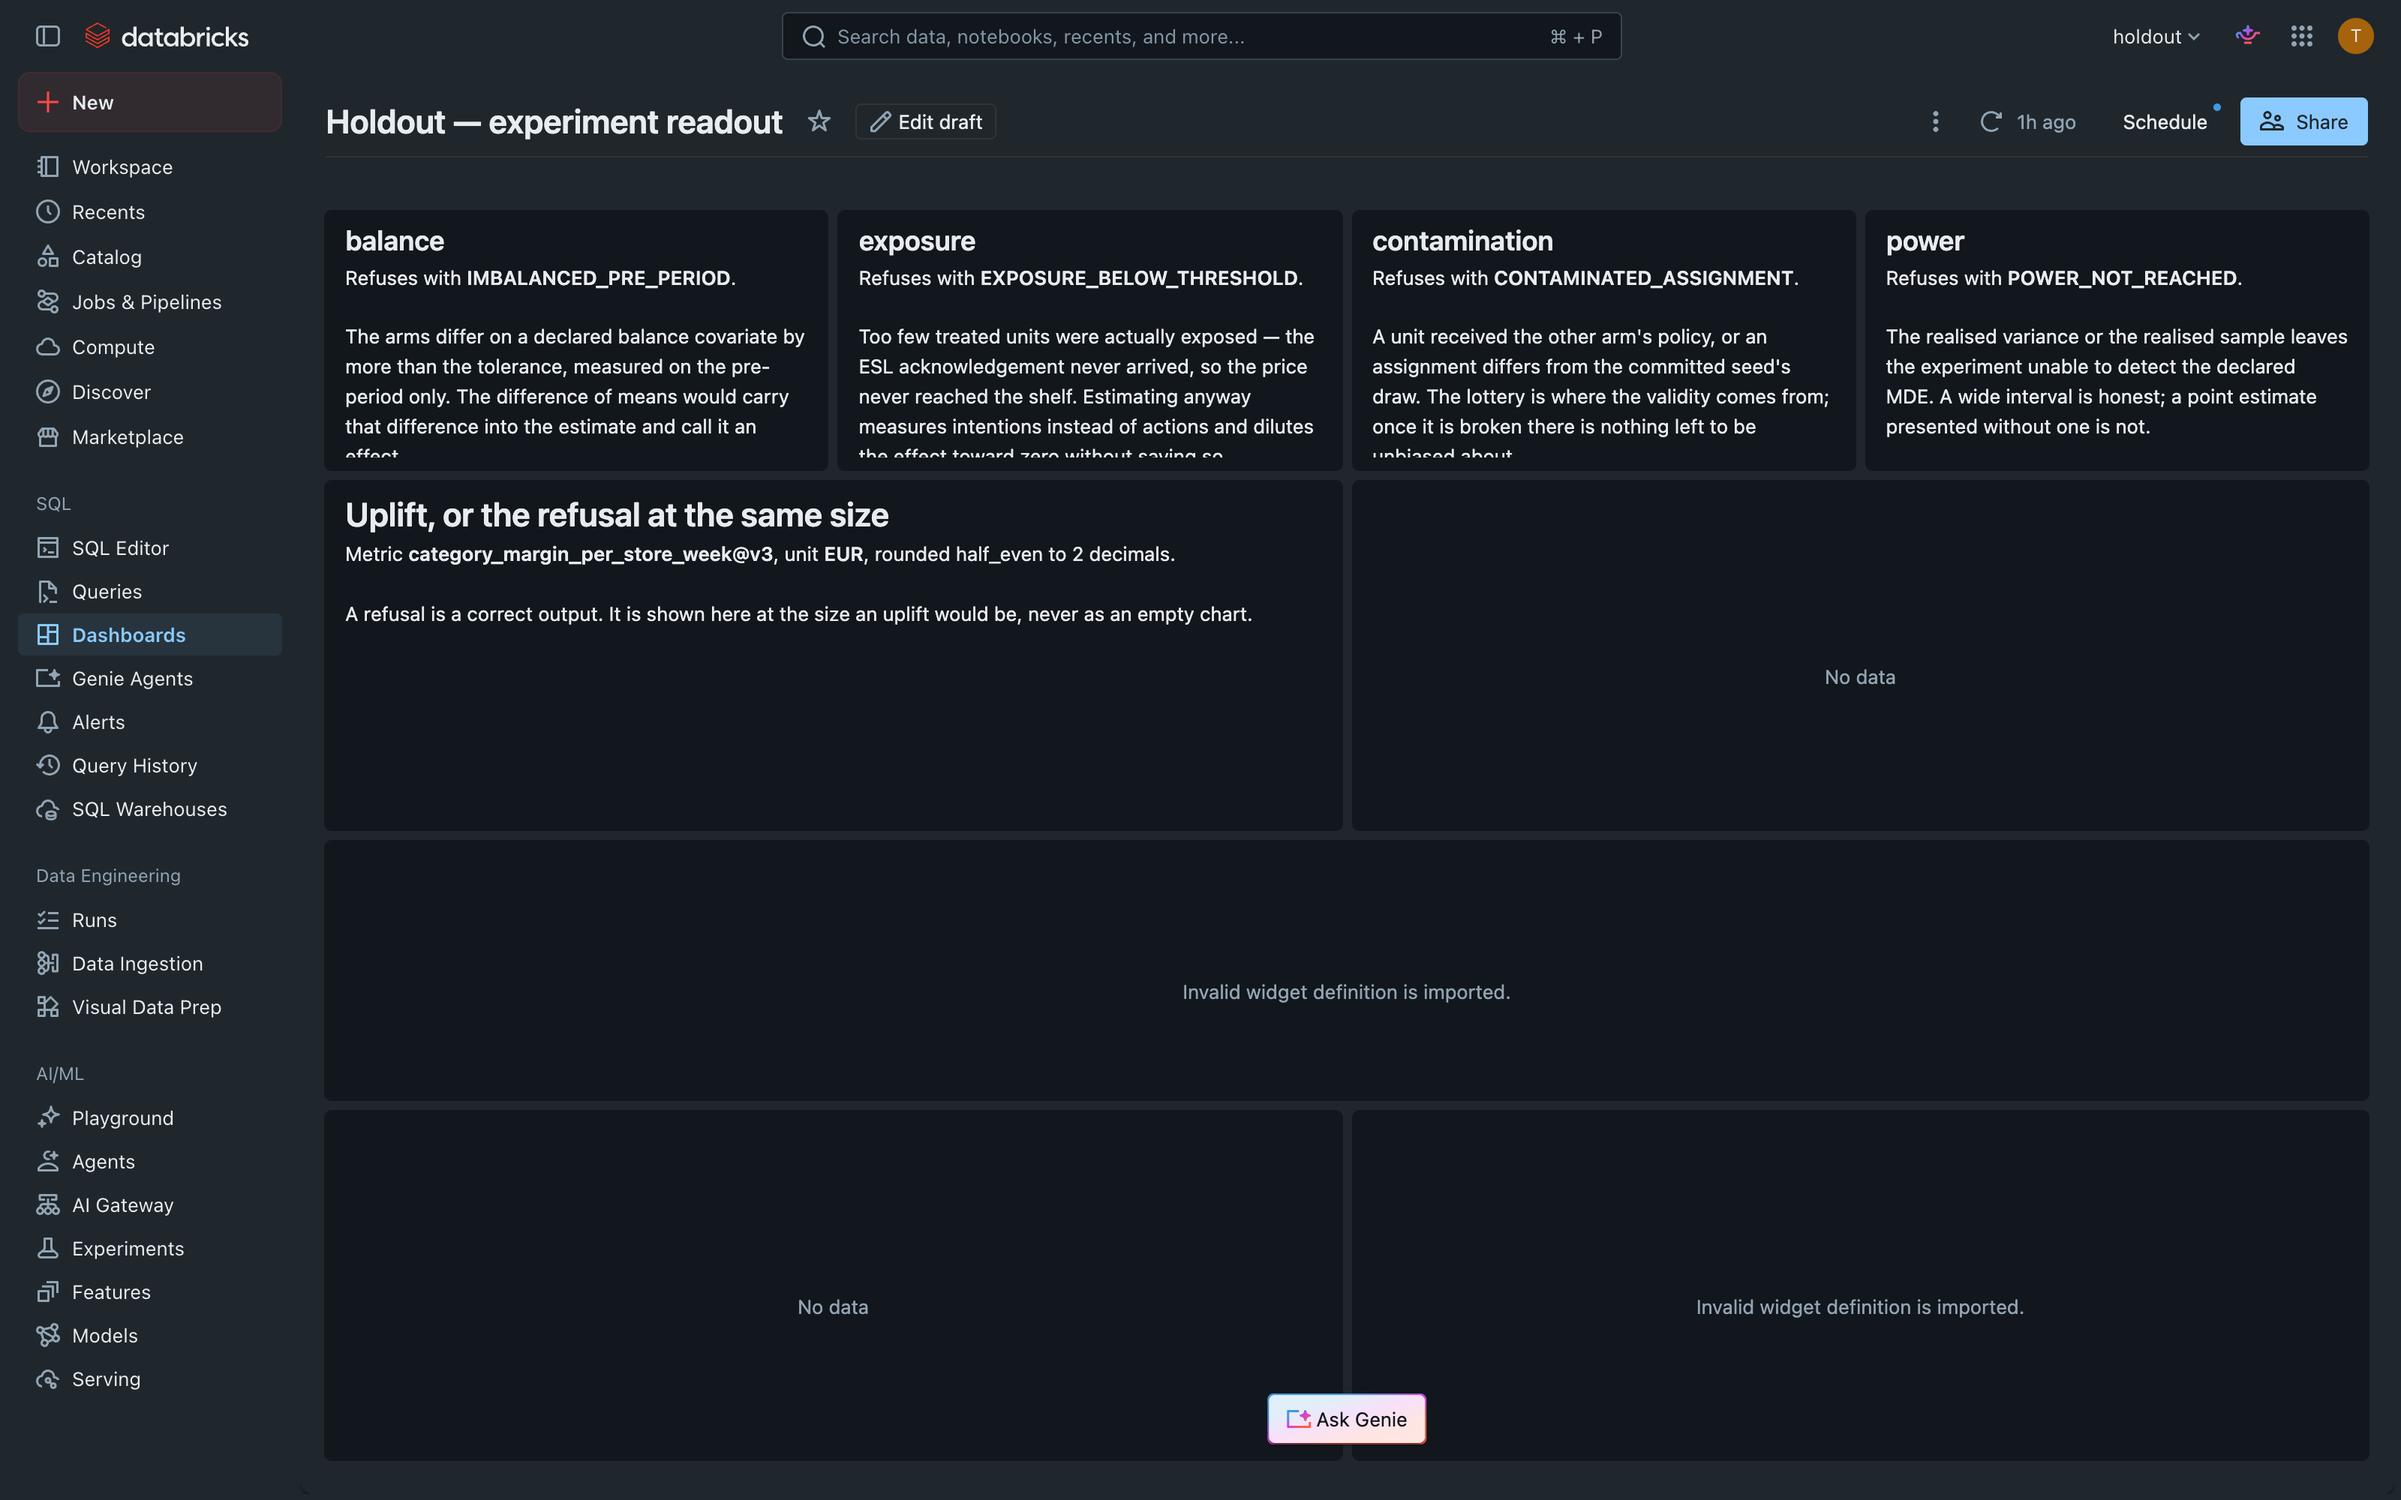
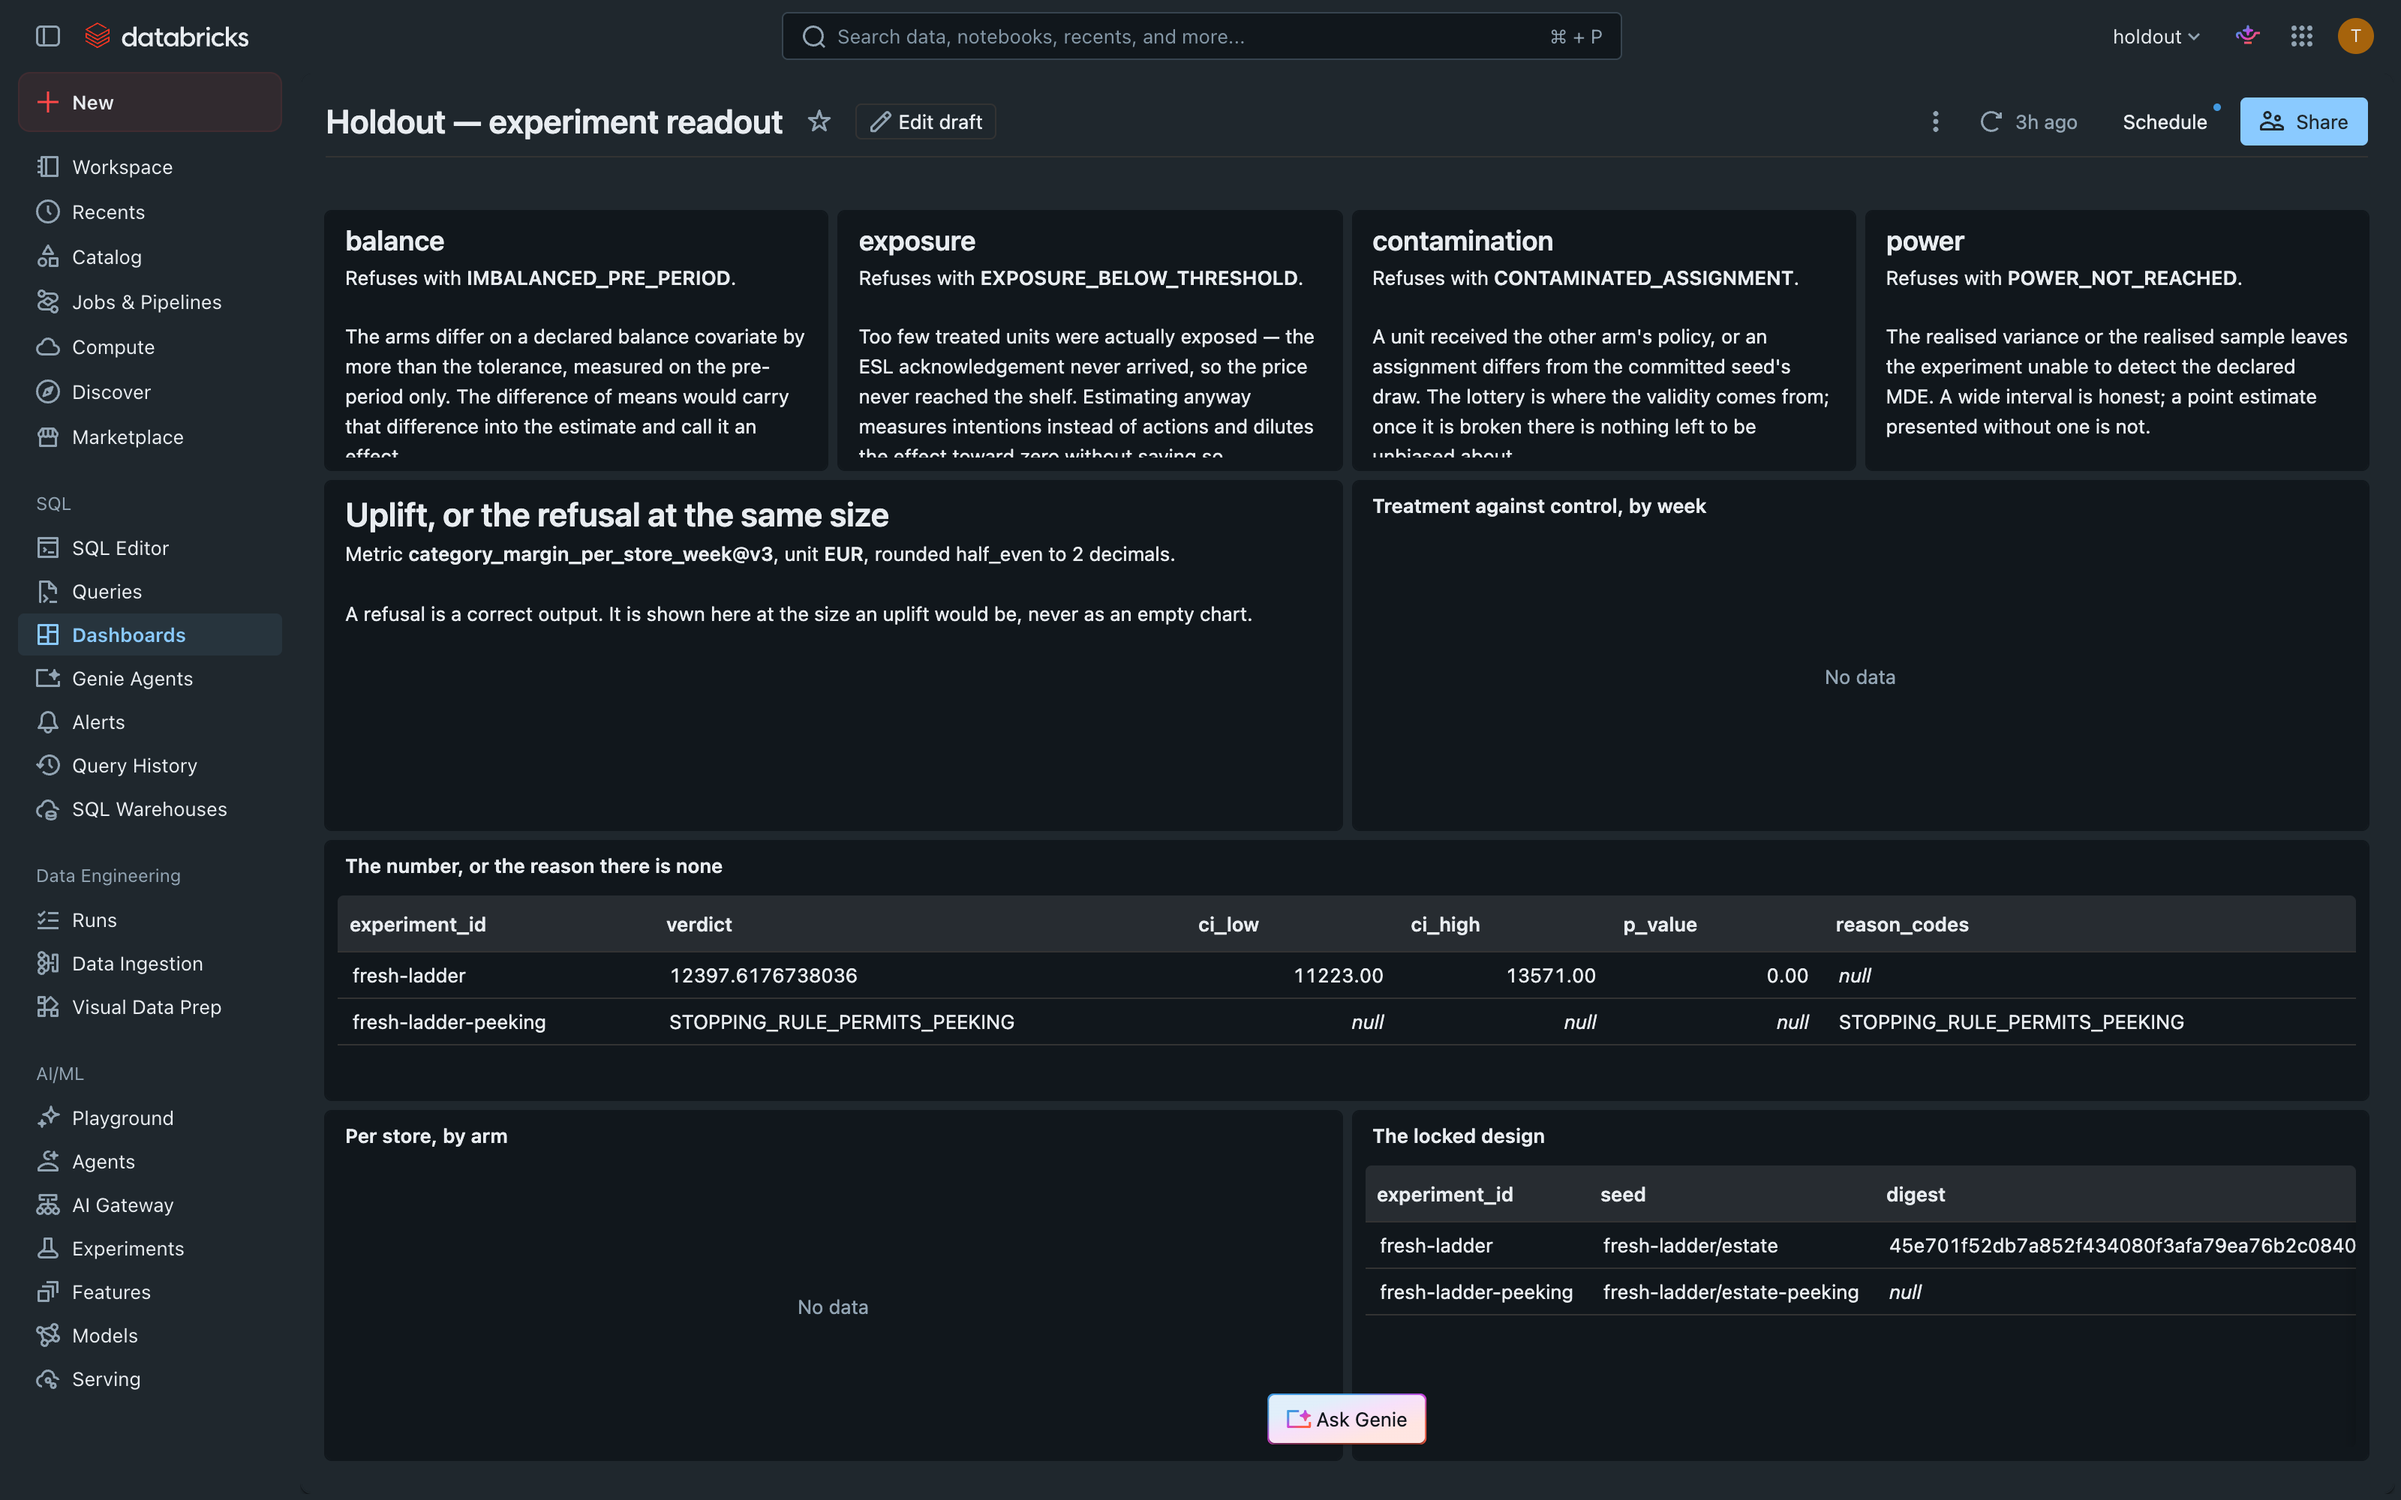
lakehouse: the verdict is the contract's number, p carries three decimals, fallback is amber
The verdict cell is bround to the metric's decimals; p_value formats with three; the monitor's outcomes carry the doctrine's colours. Filed: the readout's charts draw nothing until the pins are typed.

diff --git a/src/holdout/contracts/compilers/dashboard.py b/src/holdout/contracts/compilers/dashboard.py
@@ -251,6 +251,12 @@ _COLUMN_KINDS = {
         "alignContent": "right",
         "numberFormat": "0.00",
     },
+    "probability": {
+        "type": "float",
+        "displayAs": "number",
+        "alignContent": "right",
+        "numberFormat": "0.000",
+    },
     "integer": {
         "type": "integer",
         "displayAs": "number",
@@ -366,7 +372,10 @@ def compile_readout_dashboard(contracts: ContractSet) -> str:
                 # the verdict is its last word.
                 "queryLines": [
                     "select\n",
-                    "  coalesce(cast(uplift as string), reason_code) as verdict,\n",
+                    # Rounded as the contract says: the cell is the contract's number, not a
+                    # float's -- `12397.6176738036` was the first screen's verdict.
+                    f"  coalesce(cast(bround(uplift, {metric.rounding.decimals}) as string), "
+                    "reason_code) as verdict,\n",
                     *(f"  {column},\n" for column in READOUT_COLUMNS[:-1]),
                     f"  {READOUT_COLUMNS[-1]}\n",
                     "from (\n",
@@ -418,7 +427,7 @@ def compile_readout_dashboard(contracts: ContractSet) -> str:
                             ("verdict", "string"),
                             ("ci_low", "number"),
                             ("ci_high", "number"),
-                            ("p_value", "number"),
+                            ("p_value", "probability"),
                             ("reason_codes", "string"),
                         ),
                         {"x": 0, "y": 7, "width": 12, "height": 3},
@@ -541,7 +550,20 @@ def compile_decision_monitor(contracts: ContractSet) -> str:
                         encodings={
                             "x": _axis("hour", "temporal"),
                             "y": _axis("sum(decisions)", "quantitative", "decisions"),
-                            "color": _axis("outcome", "categorical"),
+                            # **The doctrine's three colours, fixed to the three outcomes** so
+                            # that a day that is all fallback is an amber band and not whatever
+                            # the palette's first colour happens to be.
+                            "color": {
+                                **_axis("outcome", "categorical"),
+                                "scale": {
+                                    "type": "categorical",
+                                    "mappings": [
+                                        {"value": "normal", "color": "#1FC9DC"},
+                                        {"value": "fallback", "color": "#FA8E00"},
+                                        {"value": "refusal", "color": "#A14840"},
+                                    ],
+                                },
+                            },
                         },
                         disaggregated=False,
                         position={"x": 0, "y": 0, "width": 12, "height": 5},

diff --git a/tests/contracts/test_dashboard.py b/tests/contracts/test_dashboard.py
@@ -27,6 +27,7 @@ from holdout.contracts.compilers.dashboard import (
     READOUT_PATH,
     SPEC_VERSION,
     DashboardError,
+    _readout_metric,
     compile_decision_monitor,
     compile_readout_dashboard,
 )
@@ -103,7 +104,10 @@ def test_the_verdict_dataset_selects_every_column_and_one_verdict(
     text = "".join(_dataset(readout_dashboard, "verdict")["queryLines"])
     for column in READOUT_COLUMNS:
         assert f"  {column}" in text, f"the verdict dataset does not select {column}"
-    assert "coalesce(cast(uplift as string), reason_code) as verdict" in text
+    # The number is rounded as the contract says before it becomes the verdict: a float's
+    # sixteen digits were the first screen's verdict, and the contract says two.
+    decimals = _readout_metric(CONTRACTS).rounding.decimals
+    assert f"coalesce(cast(bround(uplift, {decimals}) as string), reason_code) as verdict" in text
     assert ":" not in text.replace("::", ""), "the verdict dataset takes no parameter"
     placed = next(
         widget

diff --git a/docs/FINDINGS.md b/docs/FINDINGS.md
@@ -6626,3 +6626,22 @@ console action by another name and is recorded here for that reason.
 for a user named by a variable the workflow supplies, never by a committed email; the workspace is
 destroyed each cycle, so the hand-made one does not conflict with it
 *Status:* open
+
+---
+
+**The readout's two charts draw nothing until a viewer types the pins** · found 2026-09-15 · by
+opening the redeployed screen
+
+`arm_metric` is the compiled readout query, parametrised on the experiment and three Delta
+versions — the pin, demonstrated. Its defaults are the first versions, which hold nothing, so the
+published screen's *Treatment against control, by week* and *Per store, by arm* read *No data*
+until somebody types the versions off the readout row, and the published URL does not take them.
+`inspect` prints the dataset as `<- EMPTY` and the widget as bound, both true. The verdict table
+and the four tiles draw, which is the screen's argument; the charts are the argument's
+illustration and today they need a hand.
+
+*Site:* `src/holdout/contracts/compilers/dashboard.py` :: `    "experiment_id": ("STRING", "fresh-ladder"),`
+*Disposition:* the author's — filter widgets bound to the four parameters, so the pins are typed
+on the screen rather than in a URL; or a dataset that reads the newest readout row's pins, which
+`VERSION AS OF` cannot take from a subquery and would need a second query the compiler writes
+*Status:* open
